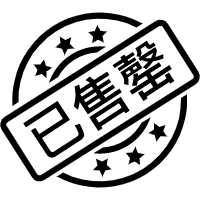
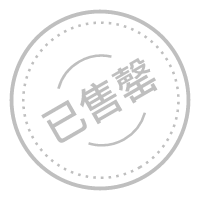
添加了商品售罄效果,和推荐商品列表.

diff --git a/pages/goods/goods.vue b/pages/goods/goods.vue
@@ -24,6 +24,9 @@
 			</view>
 		</view>
 		<!-- 底部菜单 -->
+			<view class="warm" v-if="goods_detail.inventory == 0">
+				该商品已经售罄！！！
+			</view>
 		<view class="footer">
 			<view class="icons">
 				<view class="box" @tap="share">
@@ -40,8 +43,8 @@
 				</view>
 			</view>
 			<view class="btn">
-				<view :class="[goods_detail.inventory == 0? 'joinCart-null':'joinCart']" data-type="addcart" data-status="2" @tap="setModalStatus($event)">加入购物车</view>
-				<view :class="[goods_detail.inventory == 0? 'buy-null':'buy']" data-status="1" @tap="goods_detail.inventory == 0? 'setModalStatus(' + $event+ ')':'' ">立即购买</view>
+				<view :class="[goods_detail.inventory == 0? 'joinCart-null':'joinCart']" data-type="addcart" data-status="2" @tap="goods_detail.inventory == 0?'':setModalStatus($event)">加入购物车</view>
+				<view :class="[goods_detail.inventory == 0? 'buy-null':'buy']" data-status="1" @tap="goods_detail.inventory == 0? '':setModalStatus($event)">立即购买</view>
 			</view>
 		</view>
 		<!-- share弹窗 -->
@@ -232,7 +235,7 @@
 		
 		<view class="re-commend">
 			<view class="re-h">推荐商品</view>
-			   <view :class="re-goods" v-for="(item,index) in recommend_product_list" :key="index" @tap="block_tanchuang(item)">
+			   <view class="re-goods" v-for="(item,index) in recommend_product_list" :key="index" @tap="block_tanchuang(item)">
 				   <image :src="item.picture"></image>
 				   <view class="re-txt">{{item.name}}</view>
 				   <view class="re-price">¥{{item.price}}</view>
@@ -255,7 +258,7 @@
 		
 		<view class="re-commend">
 			<view class="re-h">热门商品</view>
-			   <view :class="re-goods" v-for="(item,index) in recommend_product_list" :key="index">
+			   <view class="re-goods" v-for="(item,index) in recommend_product_list" :key="index">
 				   <image :src="item.picture"></image>
 				   <view class="re-txt">{{item.name}}</view>
 				   <view class="re-price">¥{{item.price}}</view>
@@ -1309,6 +1312,7 @@ page {
 		align-items: center;
 		font-size: 26upx;
 		color: #999;
+		position: relative;
 	}
 }
 .footer {
@@ -1761,5 +1765,17 @@ margin-left: 40rpx;
 	font-size: 35upx;
 	text-align: center;
 	color: #f47925;
+}
+.warm{
+	background-color: #AAAAAA;
+	color: #FFFFFF;
+	text-align: center;
+	position:absolute;
+	z-index:99;
+	position: fixed;
+	bottom: 95upx;
+	width: 100%;
+	font-size: 35upx;
+	
 }
 </style>

diff --git a/pages/goods/goods-list/goods-list.vue b/pages/goods/goods-list/goods-list.vue
@@ -13,7 +13,8 @@
 			<view class="product-list">
 				<view class="product" v-if="item.cataid == cataid" v-for="(item,indexs) in goodsList" :key="indexs" @click="toGoods(item.productid)">
 					
-					<image mode="widthFix" :src="item.inventory==0?'../../../static/img/shouqing.png':item.picture"></image>
+					<image class="shouqing" v-if="item.inventory == 0" src="../../../static/img/shouqing.png" ></image>
+					<image mode="widthFix" :src="item.picture"></image>
 					<view class="name">{{item.name}}</view>
 					<view class="info">
 						<view class="price">{{item.price}}</view>
@@ -262,6 +263,16 @@
 				image{
 					width: 100%;
 					border-radius: 20upx 20upx 0 0;
+					position: relative;
+				}
+				.shouqing{
+					width: 335upx;
+					height: 335upx;
+					position: absolute;
+					opacity: 0.8;
+					margin: 0 40upx 15upx 0;
+					background-color: #808080;
+					z-index: 2;
 				}
 				.name{
 					width: 92%;
